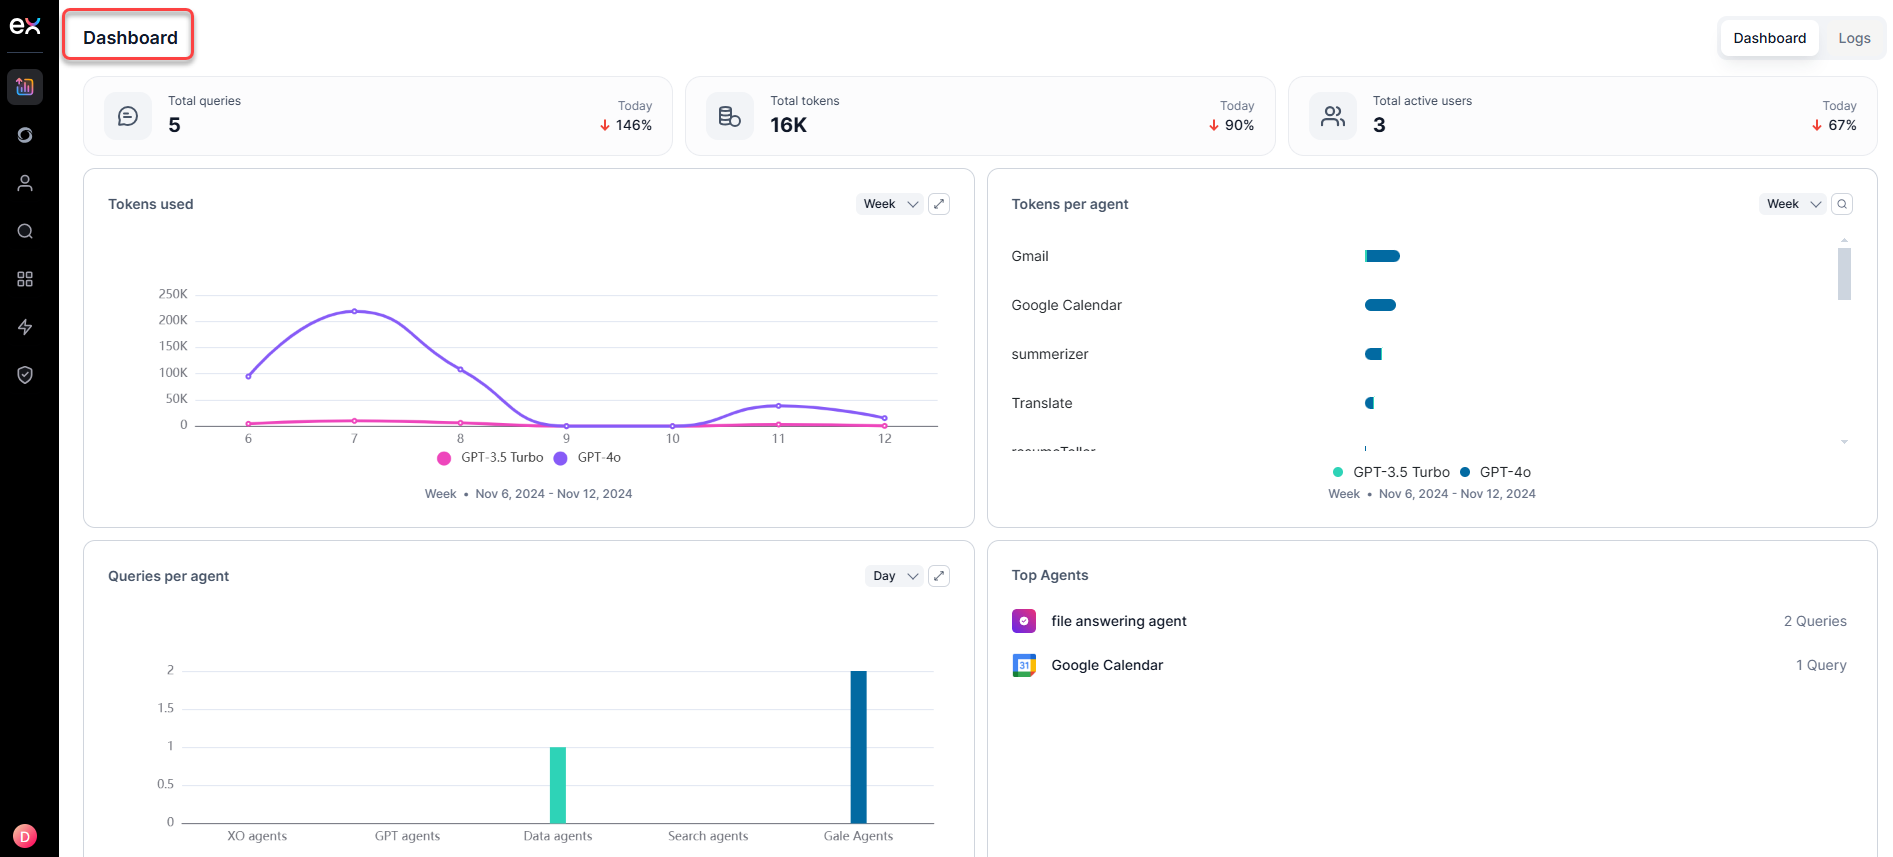
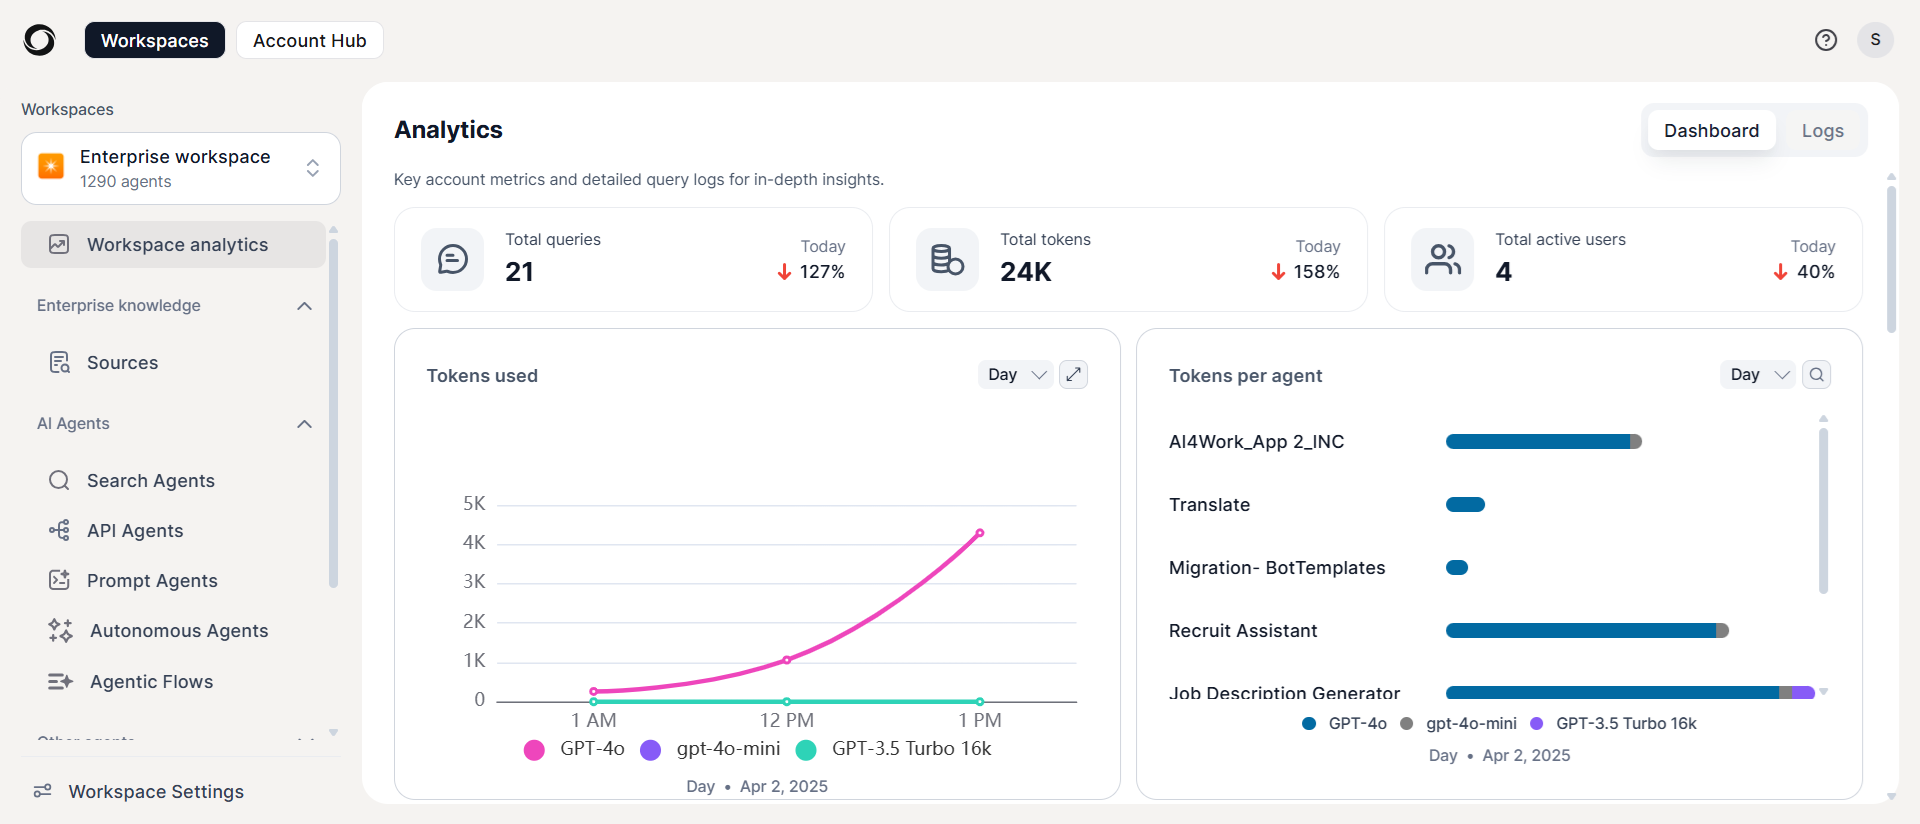
Edited to match prod UI

diff --git a/docs/eva/custom-agents/agentic-flows.md b/docs/eva/custom-agents/agentic-flows.md
@@ -1,27 +1,27 @@
-# Standard Agentic Apps
+# Agentic Flows
 
-Standard Agentic applications enable the sequential execution of multiple AI agents to accomplish and automate complex tasks efficiently using AI agents. These applications streamline workflows by automating interactions and decision-making processes based on predefined logic and user input.
+Agentic Flowlications enable the sequential execution of multiple AI agents to accomplish and automate complex tasks efficiently using AI agents. These applications streamline workflows by automating interactions and decision-making processes based on predefined logic and user input.
 
-## Creating Standard Agentic app
+## Creating Agentic Flow
 
-Follow these steps to create a new Standard Agentic app:
+Follow these steps to create a new Agentic Flow:
 
 1. Access the Admin Console
-    * Navigate to **Agents and Apps** in the left pane.
-    * Select **Standard Apps** to view the list of existing applications.
+    * Navigate to **AI Agents** in the left pane.
+    * Select **Agentic Flow** to view the list of existing applications.
     <img src="../images/Agentic_App_1.png" alt="Admin Console" title="Admin Console" style="border: 1px solid gray; zoom:70%;">
 
 2. Initiate Agent Creation
-    * Click **+Create Agent** on the Standard Agentic app page.
-    * The **Prompt Standard App Creation Wizard** guides you through the setup process.
+    * Click **+Create Agent** on the Agentic Flow page.
+    * The **Prompt Agentic Flow Creation Wizard** guides you through the setup process.
     <img src="../images/Agentic_App_2.png" alt="Admin Creation" title="Admin Creation" style="border: 1px solid gray; zoom:70%;">
 
 ### Step 1: Details and Purpose
 
-Define your app's name and purpose for optimal performance.
+Define your agent's name and purpose for optimal performance.
 
-* **App Name**: Enter a unique and meaningful name for your app.
-* **Purpose**: Defines the intended functionality of the app for query routing and training. This field specifies both the default prompt and sample queries that help the system in correctly routing user queries to the appropriate application.  
+* **agent Name**: Enter a unique and meaningful name for your agent.
+* **Purpose**: Defines the intended functionality of the agent for query routing and training. This field specifies both the default prompt and sample queries that help the system in correctly routing user queries to the appropriate application.  
 <img src="../images/Agentic_App_3.png" alt="Details and Purpose" title="Details and Purpose" style="border: 1px solid gray; zoom:70%;">
 
 !!! note
@@ -30,7 +30,7 @@ Define your app's name and purpose for optimal performance.
 
 ### Step 2: Build Agentic Flow
 
-Customize the app's workflow using a prompt-based interface.
+Customize the agent's workflow using a prompt-based interface.
 
 1. **Prompt**: A default prompt is auto-generated based on the agent’s purpose. This prompt can be customized using variables. Based on the defined purpose, the system automatically generates the necessary workflow steps to complete the task. For example, in a financial advisor workflow, performing research, checking who owns the shares, and deciding to sell or hold shares based on research.  
 <img src="../images/Agentic_App_4.png" alt="Prompt" title="Prompt" style="border: 1px solid gray; zoom:70%;">
@@ -46,7 +46,7 @@ Customize the app's workflow using a prompt-based interface.
 
 ### Step 3: Preview
 
-The **Preview** section displays sample queries to test the app’s behavior.
+The **Preview** section displays sample queries to test the agent’s behavior.
 
 1. Click **+Add Query** to input additional test queries.
 2. Once validated, click **Continue** to move to the final step.  
@@ -54,64 +54,35 @@ The **Preview** section displays sample queries to test the app’s behavior.
 
 ### Step: 4 Publish
 
-Publish your app and define access permissions and enablement.
+### Step 4: Publish
 
-To deploy the Standard Agentic app, complete the following steps:
+Publish your agent and define access permissions and enablement.
 
 **Specify publishing details**:
 
-* **Published Version**: Select the appropriate version for deployment.
 * **Publish To**: Define access permissions:
-    * **Admins**: Restrict usage to Admin users.
-    * **Selected User Groups/Users**: Grant access to specific users or groups.
-    * **Everyone in the Account**: Make the app available to all users.
-* **Enablement Type**: Configure how users interact with the app:
-    * **Always Enabled**: The app remains active and cannot be disabled.
-    * **Users Choice**: Users can enable or disable the app as needed.
+    * **Everyone in the Account**: Make the agent available to all users.
+    * **Limited Users**: Grant access to specific workspace users or groups added in publish settings of workspace.
+* **Enablement Type**: Configure how users interact with the agent:
+    * **Always Enabled**: The agent remains active and cannot be disabled.
+    * **Users Choice**: Users can enable or disable the agent as needed.
 
-<img src="../images/Agentic_App_8.png" alt="Publish" title="Publish" style="border: 1px solid gray; zoom:70%;">
+Note: The publishing options are defined in the Workspace settings. For additional information, [Workspace](../Administration/workspace.md).
 
 **Finalize deployment**:
 
-* Click **Publish** to make the agent available. The app appears in the **Standard App List** on the Admin Console page.
-
-## Modifying an Standard Agentic app
-
-Make changes to your app's configuration and settings as needed.
-
-To edit an existing Standard Agentic app:
-
-1. Navigate to the **Standard Agentic app list** page and locate the app you wish to modify.
-<img src="../images/Agentic_App_9.png" alt="Modifying an Standard Agentic app" title="Modifying an Standard Agentic app" style="border: 1px solid gray; zoom:70%;">
-
-2. Click **three dots icon** next to the app’s name. A menu with the following options will appear:
-    * **Edit**: Open and modify the app's details.
-    * **Publish/Unpublish**: Change the app's status.
-    * **Delete**: Permanently remove the app.
-3. Select the required option and continue to complete the modifications as needed.
-
-## Agent Options
-
-Manage your app's deployment, data, and availability post-publication. Agent options are enabled after publishing your Standard Agentic application. You can perform the following actions on published apps:
-
-* **Export Agent**: Download agent configuration and associated data.
-* **Delete Agent**: Permanently remove the application.
-* **Unpublish Agent**: Revert agent to draft status, making it unavailable for production use.
-  
-!!! Caution
-
-     Exercise caution when using delete or unpublish options, these actions directly impact your application's functionality.
+* Click **Publish** to make the agent available. The agent appears in the **Agentic Flow List** on the Admin Console page.
 
 ## Example Implementation: Finance Advisor
 
-### Accessing the Finance Advisor App
+### Accessing the Finance Advisor agent
 
 1. Locate the Finance Advisor:
     * Enter "Finance Advisor" in the search box at the **Home** page. The search results will display a matching application.  
     <img src="../images/Agentic_App_10.png" alt="Finance Advisor" title="Finance Advisor" style="border: 1px solid gray; zoom:70%;">
 
 2. Review flow Configuration:
-    * Upon accessing the Finance Advisor app, you will see a structured sequence of agent flows.
+    * Upon accessing the Finance Advisor agent, you will see a structured sequence of agent flows.
     * Each flow represents a specific stage of financial analysis.
     * Options available for each flow:
         * **Add**: Include new analysis steps

diff --git a/docs/eva/custom-agents/autonomous-agent.md b/docs/eva/custom-agents/autonomous-agent.md
@@ -1,25 +1,25 @@
-# Advanced Agentic Apps
+# Autonomous Agents
 
-Advanced Agentic Apps are AI-powered applications that leverage Kore’s Agent platform to autonomously manage complex business tasks and workflows. These applications can rapidly respond to evolving business requirements and circumstances in real time by employing adaptive algorithms for dynamic decision-making. They can significantly increase your organization's operational efficiency and decision-making capabilities by integrating artificial intelligence with business process automation.
+Autonomous Agents are AI-powered applications that leverage Kore’s Agent platform to autonomously manage complex business tasks and workflows. These applications can rapidly respond to evolving business requirements and circumstances in real time by employing adaptive algorithms for dynamic decision-making. They can significantly increase your organization's operational efficiency and decision-making capabilities by integrating artificial intelligence with business process automation.
 
-## Creating Agentic App
+## Creating Autonomous Agent
 
-The creation of a new Advanced Agentic App follows a structured, four-step process designed to ensure proper configuration and deployment.
+The creation of a new Advanced Autonomous Agent follows a structured, four-step process designed to ensure proper configuration and deployment.
 
 Follow these steps to create a new Agentic Advanced App:
 
 1. Access the Admin Console:
-    * Navigate to **Agents and Apps** in the left pane.
-    * Under Agentic Apps, select **Advanced Apps** to view the list of existing applications. 
+    * Navigate to **AI Agents** in the left pane.
+    * Select **Autonomous Agents** to view the list of existing applications. 
 2. Initiate Agent Creation:
-    * Click **+Create Agent** on the Agentic App page.
+    * Click **+Create Agent** on the Autonomous Agents page.
     * The **App Creation Wizard** guides you through the setup process.
     <img src="../images/Advance_Agentic_App_1.png" alt="Admin Console" title="Admin Console" style="border: 1px solid gray; zoom:70%;">
 3. Details and Purpose: Define your app's name and purpose for optimal performance.
     * **Icon**:Choose from the predefined icon library or upload a custom icon.
     * **Agent Name**: Enter a unique and meaningful name for your app.
     * **Purpose of app**: Define the intended functionality of the app for query routing and training. This field specifies both the default prompt and sample queries that help the system in correctly routing user queries to the appropriate application.
-4. Configure Agentic App: The configuration step establishes the technical foundation of your app through API integration.  
+4. Configure Autonomous Agent: The configuration step establishes the technical foundation of your app through API integration.  
 
      Define API fields as per the details below:
 
@@ -48,7 +48,7 @@ Follow these steps to create a new Agentic Advanced App:
      <img src="../images/Advance_Agentic_App_3.png" alt="Admin Console" title="Admin Console" style="border: 1px solid gray; zoom:70%;">
 
 
-6. Publish: Publish your app and define access permissions and enablement. To deploy the Agentic App, specify publishing details:
+6. Publish: Publish your app and define access permissions and enablement. To deploy the Autonomous Agent, specify publishing details:
      * **Published Version**: Select the appropriate version for deployment.
      * **Publish To**: Define access permissions:
          * **Admins**: Restrict usage to admin users.
@@ -70,31 +70,10 @@ To import an existing Advanced App:
 2. Select the .ZIP file of the existing app.
 3. Click **Import** to complete the process. The imported agent will appear on the Advanced App page.
 
-## Modifying an Advanced Agentic app
-
-Make changes to your app's configuration and settings as needed.
-
-To edit an existing Advanced Agentic app:
-
-1. Navigate to the **Advanced Agentic app list** page and locate the app you wish to modify.
-2. Click **three dots icon** next to the app’s name. A menu with the following options will appear:
-    1. **Edit**: Open and modify the app's details.
-    2. **Publish/Unpublish**: Change the app's status.
-    3. **Delete**: Permanently remove the app.
-3. Select the required option and continue to complete the modifications as needed.
-
-## Agent Options
-
-Manage your app's deployment, data, and availability post-publication. Agent options are enabled after publishing your Advanced Agentic application. You can perform the following actions on published apps:
-
-* **Export Agent**: Download agent configuration and associated data.
-* **Delete Agent**: Permanently remove the application.
-* **Unpublish Agent**: Revert agent to draft status, making it unavailable for production use.
-
 ## Usage
 
-Advanced Agentic Apps integrate seamlessly with the Kore Agent Platform to provide intelligent, automated assistance for business tasks. You can trigger an app from the **Compose bar > Agents > Apps tab**. Here's how they operate in practice:
+Autonomous Agents integrate seamlessly with the Kore Agent Platform to provide intelligent, automated assistance for business tasks. You can trigger an app from the **Compose bar > Agents > Apps tab**. Here's how they operate in practice:
 
-When deployed, the Agentic App appears as an interactive application within the AI Work interface. As shown in the example screenshot, users can engage in natural conversations with the app to accomplish specific tasks. The app understands the context, process requests, and provides relevant responses based on its configured capabilities.
+When deployed, the Autonomous Agent appears as an interactive application within the AI Work interface. As shown in the example screenshot, users can engage in natural conversations with the app to accomplish specific tasks. The app understands the context, process requests, and provides relevant responses based on its configured capabilities.
 
 <img src="../images/Advance_Agentic_App_5.png" alt="Admin Console" title="Admin Console" style="border: 1px solid gray; zoom:70%;">

diff --git a/docs/eva/Administration/admin-overview.md b/docs/eva/Administration/admin-overview.md
@@ -2,13 +2,8 @@
 
 The  Admin Console of **AI for Work** is a centralized management interface for administrators to configure, monitor, and manage system settings, including:
 
-* Dashboard
-* Assist Configuration
-* User Management
-* AI Search
-* Pre Built Solutions
-* AI Agents
-* Security
+* [Workspace](./workspace.md)
+* [Account Hub](./account-hub.md)
 
 ## Prerequisites
 
@@ -26,6 +21,5 @@ To access the **Admin Console** on **AI for Work**, follow the steps below:
 2. Click **Admin Console** under your user account menu.  
 <img src="../images/admin-console.png" alt="admin-console" title="admin-console" style="border: 1px solid gray; zoom:80%;">
 
-3. The system redirects to the **Dashboard** page under the **Admin Console**.  
+1. The system redirects to the **Workspace** page.  
 <img src="../images/dashboard.png" alt="dashboard" title="dashboard" style="border: 1px solid gray; zoom:80%;">  
-
